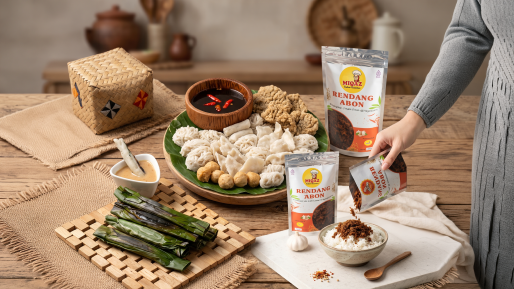
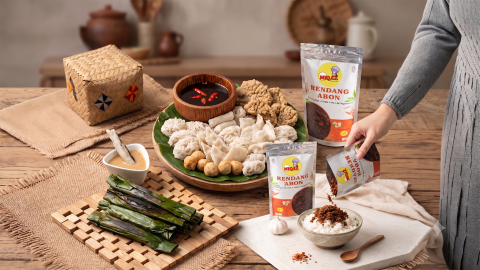
feat: update Gallery and FinalCta components with associated image assets

diff --git a/components/gallery.tsx b/components/gallery.tsx
@@ -13,33 +13,38 @@ const galleryImages: GalleryImage[] = [
     span: "tall",
   },
   {
-    src: "/images/product-pempek.png",
-    alt: "Pempek premium with rich vinegar sauce",
+    src: "/images/photo-2.webp",
+    alt: "Berbagi perjalanan dan inspirasi bisnis kuliner lokal dalam sesi podcast bersama RMOI TV.",
     span: "normal",
   },
   {
-    src: "/images/product-otakotak.png",
-    alt: "Otak-otak panggang on rustic wooden board",
+    src: "/images/photo-3.webp",
+    alt: "Proses pengemasan setiap pesanan dilakukan dengan teliti untuk memastikan kualitas produk tetap terjaga hingga diterima pelanggan.",
     span: "normal",
   },
   {
-    src: "/images/product-rendang.png",
-    alt: "Rendang abon ikan with aromatic spices",
-    span: "wide",
-  },
-  {
-    src: "/images/product-pempek.png",
-    alt: "Close-up of freshly made pempek",
+    src: "/images/photo-4.webp",
+    alt: "Kemasan MIQAZ dirancang praktis, aman, dan siap menemani perjalanan produk ke berbagai kota di Indonesia.",
     span: "normal",
   },
   {
-    src: "/images/product-otakotak.png",
-    alt: "Grilled otak-otak ready to serve",
+    src: "/images/photo-5.webp",
+    alt: "Melayani pemesanan secara online dengan pengiriman ke berbagai daerah, sehingga cita rasa khas Palembang dapat dinikmati lebih luas.",
     span: "normal",
   },
   {
-    src: "/images/product-otakotak.png",
-    alt: "Grilled otak-otak ready to serve",
+    src: "/images/photo-6.webp",
+    alt: "Berpartisipasi dalam berbagai pameran dan bazar UMKM sebagai bagian dari upaya memperkenalkan cita rasa autentik MIQAZ kepada masyarakat.",
+    span: "normal",
+  },
+  {
+    src: "/images/photo-7.webp",
+    alt: "Momen bersama Ketua MPR RI sebagai bentuk apresiasi dan dukungan terhadap perkembangan produk kuliner lokal Indonesia.",
+    span: "normal",
+  },
+  {
+    src: "/images/photo-8.webp",
+    alt: "Di balik setiap produk MIQAZ, terdapat tim produksi yang berkomitmen menjaga kualitas, kebersihan, dan konsistensi di setiap proses.",
     span: "normal",
   },
 ];

diff --git a/components/final-cta.tsx b/components/final-cta.tsx
@@ -6,7 +6,7 @@ export function FinalCta() {
   return (
     <section
       id="contact"
-      className="relative overflow-hidden bg-dark-green py-12 lg:py-24"
+      className="relative overflow-hidden bg-dark-green py-12 lg:pt-24 lg:pb-12"
       aria-labelledby="cta-heading"
     >
       {/* Subtle decorative pattern */}